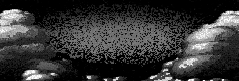
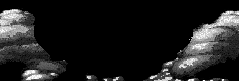
base2

diff --git a/src/styles/pages.css b/src/styles/pages.css
@@ -23,8 +23,8 @@
    sides into the page instead. */
 @media (min-width: 1441px) {
   .home-hero__bg {
-    -webkit-mask-image: linear-gradient(90deg, transparent calc(50% - 720px), #000 calc(50% - 500px), #000 calc(50% + 500px), transparent calc(50% + 720px));
-    mask-image: linear-gradient(90deg, transparent calc(50% - 720px), #000 calc(50% - 500px), #000 calc(50% + 500px), transparent calc(50% + 720px));
+    -webkit-mask-image: linear-gradient(90deg, transparent calc(50% - 720px), #000 calc(50% - 660px), #000 calc(50% + 660px), transparent calc(50% + 720px));
+    mask-image: linear-gradient(90deg, transparent calc(50% - 720px), #000 calc(50% - 660px), #000 calc(50% + 660px), transparent calc(50% + 720px));
   }
 }
 
@@ -32,7 +32,7 @@
   content: "";
   position: absolute;
   inset: auto 0 0 0;
-  height: 140px;
+  height: 60px;
   background: linear-gradient(180deg, rgba(13, 8, 22, 0), #0d0816);
 }
 
